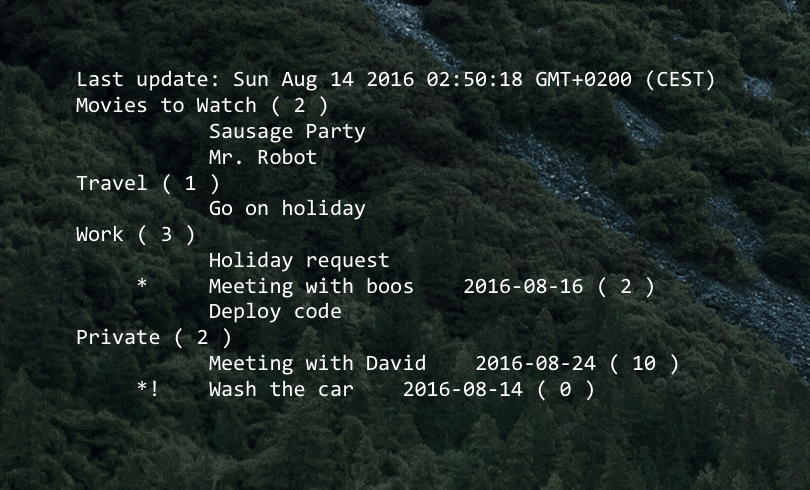
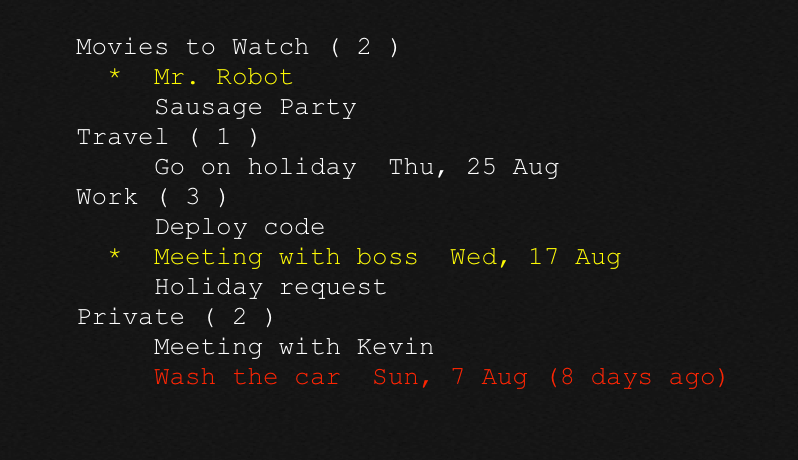
Changed format, added colors

diff --git a/script.js b/script.js
@@ -19,6 +19,41 @@ const DEFAULT_HTTP_OPTIONS = {
 	}
 };
 
+const COLORS = {
+	RESET: '\x1b[0m',
+	RED: '\x1b[31m',
+	YELLOW: '\x1b[33m'
+};
+
+Date.prototype.monthNames = [
+	"January", "February", "March",
+	"April", "May", "June",
+	"July", "August", "September",
+	"October", "November", "December"
+];
+
+Date.prototype.daysNames = [ 'Sunday', 'Monday', 'Tuesday', 'Wednesday', 'Thursday', 'Friday', 'Saturday' ];
+
+Date.prototype.getMonthName = function() {
+	return this.monthNames[ this.getMonth() ];
+};
+
+Date.prototype.getShortMonthName = function() {
+	return this.getMonthName().substr( 0, 3 );
+};
+
+Date.prototype.getDayName = function() {
+	return this.daysNames[ this.getDay() ];
+};
+
+Date.prototype.getShortDayName = function() {
+	return this.getDayName().substr( 0, 3 );
+};
+
+Date.prototype.toShortFormatDate = function() {
+	return `${this.getShortDayName()}, ${this.getDate()} ${this.getShortMonthName()}`;
+};
+
 const _result = Symbol( 'result' );
 const _printFunc = Symbol( 'printFunc' );
 
@@ -44,8 +79,8 @@ class OutputBuilder {
 	 *
 	 * @returns {OutputBuilder}
 	 */
-	addLine( line ) {
-		this[ _result ] += line + ' \n';
+	addLine( line, color = null ) {
+		this[ _result ] += this._addColor( line + ' \n', color );
 
 		return this;
 	}
@@ -62,10 +97,26 @@ class OutputBuilder {
 	}
 
 	/**
-	 * Prinst result.
+	 * Prints result.
 	 */
 	print() {
 		this[ _printFunc ]( this.result );
+	}
+
+	/**
+	 * Adds color to string.
+	 *
+	 * @private
+	 * @param {String} line
+	 * @param {String} color
+	 * @returns {String}
+	 */
+	_addColor( line, color ) {
+		if ( !color ) {
+			return line;
+		}
+
+		return color + line + COLORS.RESET;
 	}
 }
 
@@ -114,6 +165,62 @@ class FileCache {
 	}
 }
 
+class Task {
+	constructor( task ) {
+		this.id = task.id;
+		this.title = task.title;
+		this.starred = task.starred;
+		this.due_date = task.due_date;
+	}
+
+	/**
+	 * Returns formatted due date.
+	 *
+	 * @returns {String}
+	 */
+	get formattedDueDate() {
+		return this.due_date ? new Date( this.due_date ).toShortFormatDate() : '';
+	}
+
+	/**
+	 * Returns information whether a task is after the deadline.
+	 *
+	 * @returns {Boolean}
+	 */
+	get isAfterDeadline() {
+		return this.daysToTask !== null && this.daysToTask <= 0;
+	}
+
+	/**
+	 * Returns information about the number of days to task.
+	 *
+	 * @returns {Number}
+	 */
+	get daysToTask() {
+		if ( !this.due_date ) {
+			return null;
+		}
+
+		const dueDate = new Date( this.due_date );
+		dueDate.setHours( 0, 0, 0, 0 );
+
+		const now = new Date();
+		now.setHours( 0, 0, 0, 0 );
+
+		return Math.round( (dueDate.getTime() - now.getTime()) / (1000 * 60 * 60 * 24) );
+	}
+
+	/**
+	 * Converts task to string.
+	 *
+	 * @returns {string}
+	 */
+	toString() {
+		return `  ${this.starred ? '*' : ' '}  ${this.title}  ${this.formattedDueDate} ${this.isAfterDeadline ? '(' +
+		Math.abs( this.daysToTask ) + ' days ago)' : ' ' }`;
+	}
+}
+
 class WunderlistGeekTool {
 	/**
 	 * Gets data and displays them.
@@ -121,19 +228,23 @@ class WunderlistGeekTool {
 	run() {
 		const output = new OutputBuilder( console.log );
 
-		console.log( `Last update: ${new Date().toUTCString()}` );
-		output.addSeparator();
-
 		this._getListsWithTasks()
 			.then( ( lists ) => {
 				for ( const list of lists.filter( list => list.tasks.length ) ) {
 					output.addLine( `${list.title} ( ${list.tasks.length} )` );
 
 					for ( const task of list.tasks ) {
-						let daysToTask = this._getDaysToTask( task );
+						let lineColor = null;
 
-						output.addLine( `     ${task.starred ? '*' : ' '}${this._isAfterDeadline( task ) ? '!' : ' ' }    ${task.title}    ${task.due_date ||
-						''}${daysToTask !== null ? ` ( ${daysToTask} )` : ''}` );
+						if ( task.starred ) {
+							lineColor = COLORS.YELLOW;
+						}
+
+						if ( task.isAfterDeadline ) {
+							lineColor = COLORS.RED;
+						}
+
+						output.addLine( task.toString(), lineColor );
 					}
 				}
 
@@ -160,37 +271,6 @@ class WunderlistGeekTool {
 						}
 					} );
 			} );
-	}
-
-	/**
-	 * Returns information about the number of days to task.
-	 *
-	 * @private
-	 * @param {Task} task
-	 * @returns {Number}
-	 */
-	_getDaysToTask( task ) {
-		if ( !task.due_date ) {
-			return null;
-		}
-
-		const dueDate = new Date( task.due_date );
-		dueDate.setHours( 0, 0, 0, 0 );
-
-		return Math.round( (dueDate.getTime() - new Date().getTime()) / (1000 * 60 * 60 * 24) );
-	}
-
-	/**
-	 * Returns information whether a task is after the deadline.
-	 *
-	 * @private
-	 * @param {Task} task
-	 * @returns {Boolean}
-	 */
-	_isAfterDeadline( task ) {
-		const dayToTask = this._getDaysToTask( task );
-
-		return dayToTask !== null && dayToTask <= 0;
 	}
 
 	/**
@@ -273,7 +353,7 @@ class WunderlistGeekTool {
 							const task = tasks.find( task => task.id === id );
 
 							if ( task ) {
-								results.push( task );
+								results.push( new Task( task ) );
 							}
 						}
 

diff --git a/README.md b/README.md
@@ -1,6 +1,7 @@
 # Wunderlist Geektool
 
 Very simple [GeekTool](http://www.tynsoe.org/v2/geektool/) script written in Node JS to display tasks from [Wunderlist](https://www.wunderlist.com/).
+Created without additional dependencies for easier be used.
 
 ![](https://github.com/czerwonkabartosz/wunderlist-geektool/blob/master/screenshots/details.png?raw=true)
 
